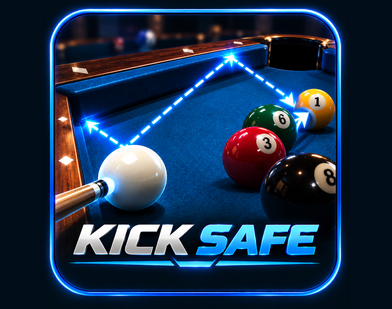
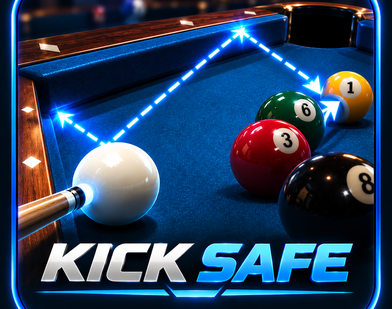
Fix Kick Safe tile crop

diff --git a/sw.js b/sw.js
@@ -1,4 +1,4 @@
-const CACHE = 'pool-iq-v14-82';
+const CACHE = 'pool-iq-v14-83';
 const ASSETS = [
   './',
   './index.html',

diff --git a/README.md b/README.md
@@ -28,7 +28,7 @@ Shot Simulator simplification. Playing-surface sizes (ball stays 2.25 in): 7 ft 
 - Cache `pool-iq-v14-2`, app version 14.
 - v14-1: 8-ball runout plays the group (not the 1-ball), shows a breakout for a tied-up ball, 3D is a low view from behind the cue ball, and full screen is the table plus EXIT.
 - v14-2: 3D view is a shaded table from behind the cue ball (wood rails, lit cloth, round balls, cue).
-- v14-82: Kick Safe is a Table Games scorekeeper after Cribbage. Defensive 9-ball: fouls score, pocketed balls are spotted, race to 3, 5, 7, or 10. Solo kick practice is separate from 1 vs 1 history. No Career XP. Cache `pool-iq-v14-82`.
+- v14-82: Kick Safe is a Table Games scorekeeper after Cribbage. Defensive 9-ball: fouls score, pocketed balls are spotted, race to 3, 5, 7, or 10. Solo kick practice is separate from 1 vs 1 history. No Career XP. Cache `pool-iq-v14-83`.
 - v14-81: Runout Drill System levels 1–13 are sharp racks. Same balls, same triangle spots as the original diagrams. Real ball colors and readable numbers. Transparent background. Levels 14–16 unchanged. No scoring, text, lock, or XP change. Cache `pool-iq-v14-81`.
 - v14-80: A finished Drill Set or Exam is one gold medal. Same leaves, disc, and ribbon. Metal, rim, or the small center mark changes so exams can be told apart. The name under the medal is the exam (Exam I, Exam II, RDS, Safety Master). Home uses the same medal, smaller, on the existing completed line. No Career XP change. Cache `pool-iq-v14-80`.
 - v14-78: Runout Drill System (RDS) is a scored progression on Drill Sets & Exams. Three racks at a level. 2 out of 3 opens the next level, 1 of 3 stays, 0 of 3 goes down. Not on the All list. No Career XP change. Cache `pool-iq-v14-78`.
